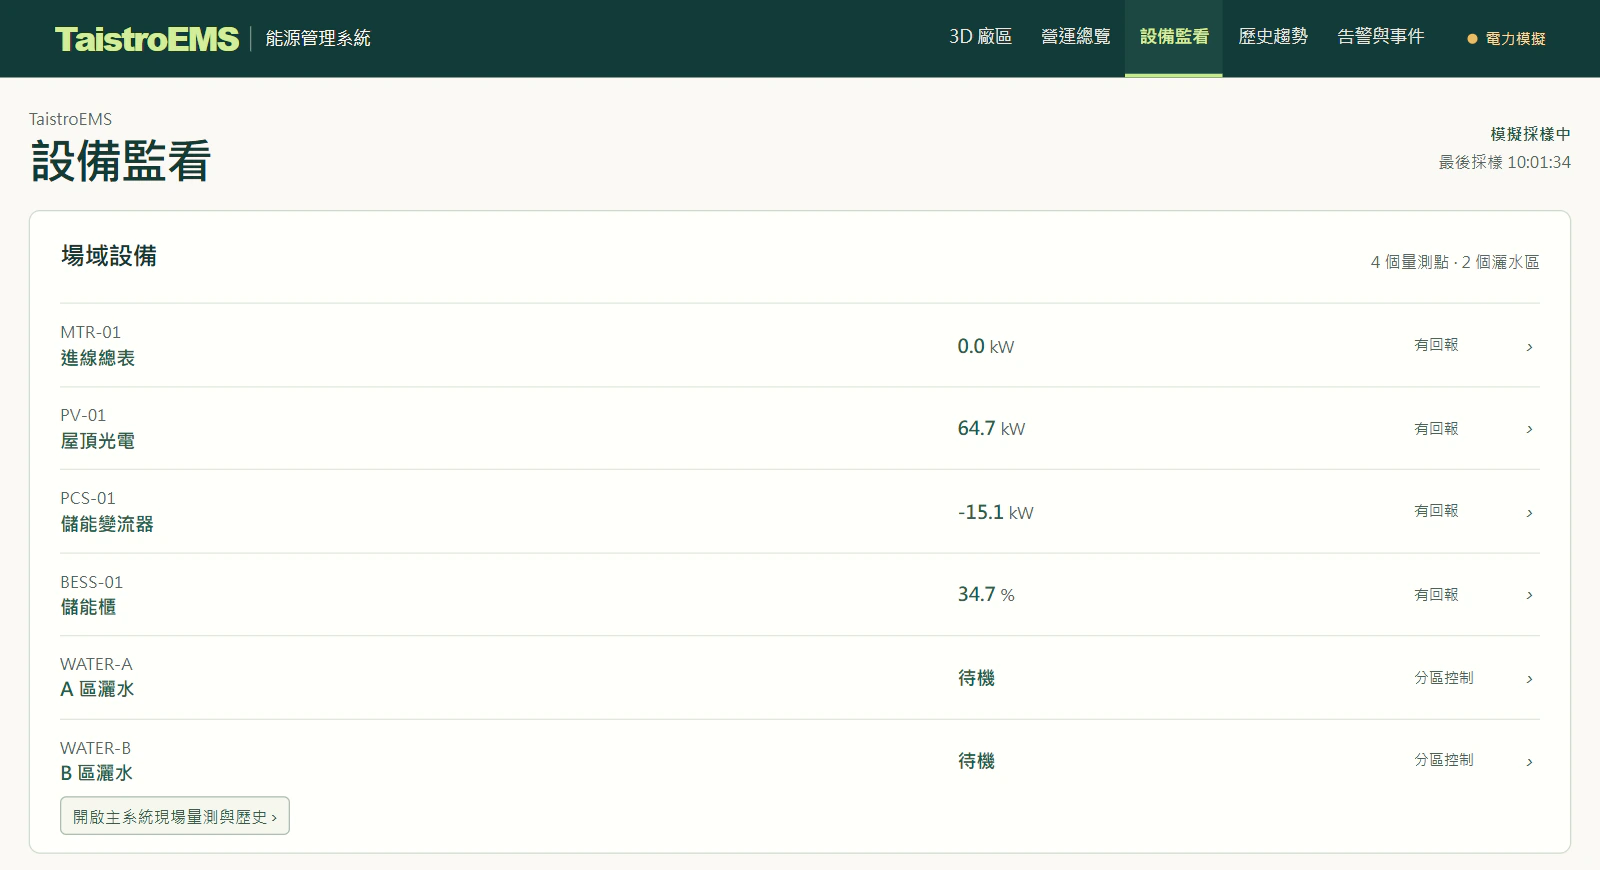
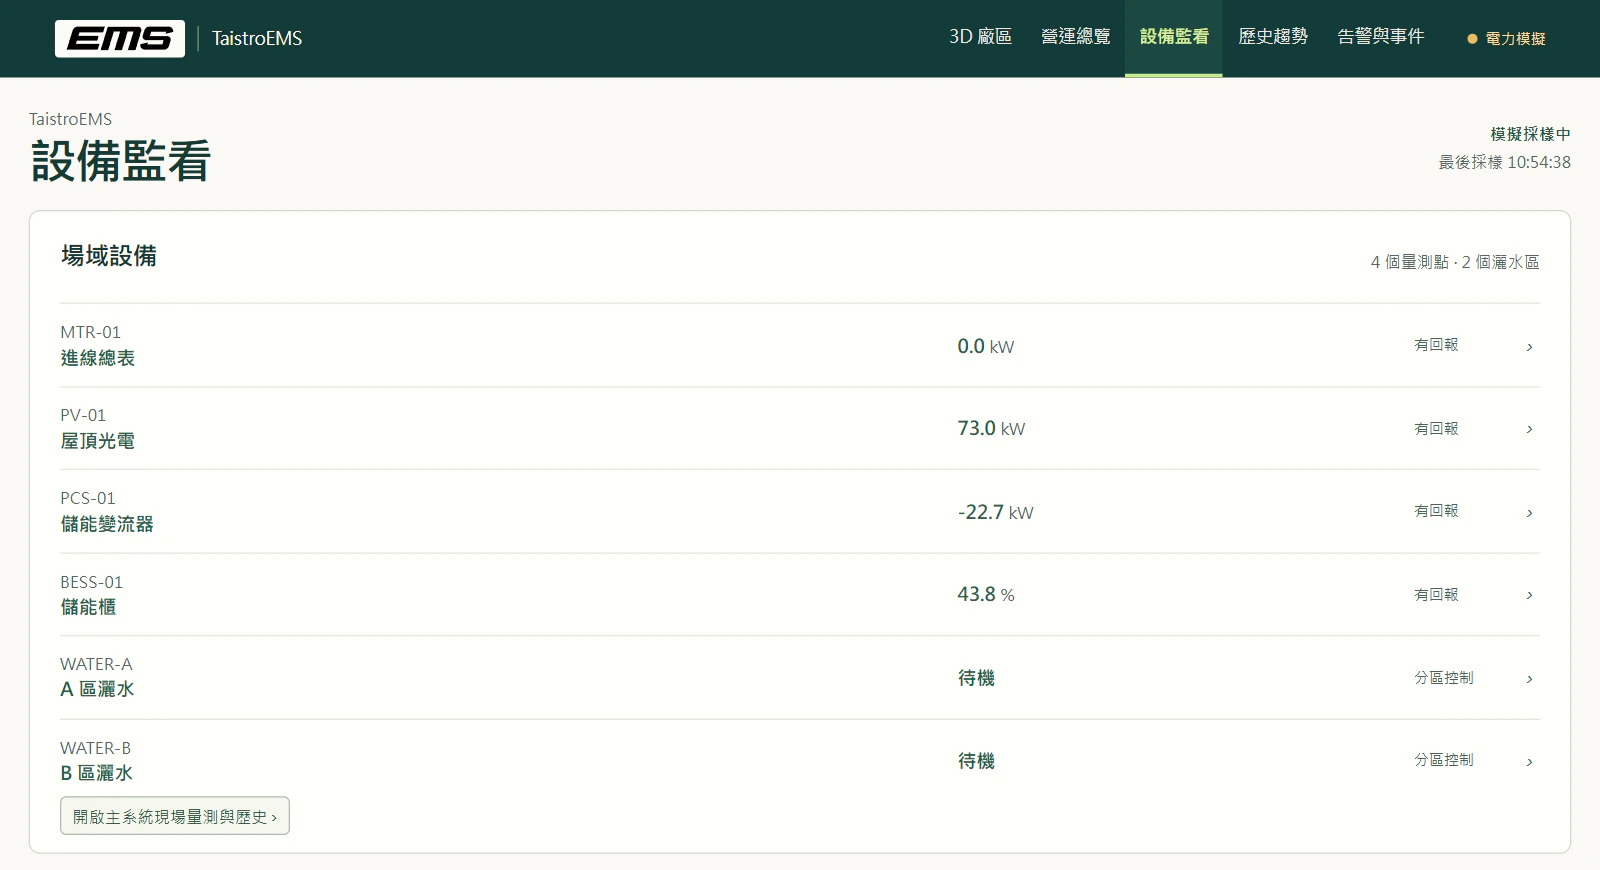
Use the supplied EMS wordmark on the product page and demo screens

diff --git a/docs/design/live-prototype/energy-design.js b/docs/design/live-prototype/energy-design.js
@@ -10,10 +10,11 @@ function stageContent(m, index) {
 function renderEnergy(product, destination, { locale = 'zh-Hant', messages = getMessages(locale) } = {}) {
   const m = messages[product];
   const name = product === 'ems' ? 'TaistroEMS' : 'PVsim';
+  const wordmark = product === 'ems' ? '<img class="ems-wordmark" src="assets/ems-wordmark.svg" alt="" width="88" height="20">' : '';
   return `<div class="energy-product" data-energy-product="${product}">
     <section class="energy-opening" aria-labelledby="energy-title"><div class="wrap energy-opening-layout">
       <div class="energy-opening-copy">
-        <p class="product-identity"><span>${e(m.productLabel)}</span></p>
+        <p class="product-identity">${wordmark}<span>${e(m.productLabel)}</span></p>
         <h1 id="energy-title">${m.title.map((line, index) => index === 2 ? `<span class="marked">${e(line)}</span>` : e(line)).join('<br>')}</h1>
         <p class="energy-intro">${e(m.intro)}</p>
         <div class="energy-opening-actions"><a class="button" href="#process">${e(m.cta)}</a><span class="energy-status">${e(m.status)}</span></div>
@@ -25,7 +26,7 @@ function renderEnergy(product, destination, { locale = 'zh-Hant', messages = get
     <section class="energy-capabilities energy-torn" id="capabilities" aria-labelledby="energy-capabilities-title"><div class="wrap energy-capabilities-layout"><div><span class="energy-section-number">03</span><h2 id="energy-capabilities-title">${m.capabilitiesTitle.map(e).join('<br>')}</h2><p>${e(m.capabilitiesIntro)}</p></div><dl class="energy-capability-list">${m.capabilities.map(([title, copy], index) => `<div><dt><span>0${index + 1}</span>${e(title)}</dt><dd>${e(copy)}</dd></div>`).join('')}</dl></div></section>
     <section class="energy-demo" id="proof" aria-labelledby="energy-demo-title"><div class="wrap"><div class="energy-demo-heading"><h2 id="energy-demo-title">${m.demoTitle.map(e).join('<br>')}</h2><p>${e(m.demoIntro)}</p></div>
       ${renderProductScreens(product, m)}
-      <div class="energy-workbook"><div class="energy-workbook-top"><span>${name}</span><span>${e(m.demoLabel)}</span></div>
+      <div class="energy-workbook"><div class="energy-workbook-top"><span class="energy-workbook-brand">${wordmark}${name}</span><span>${e(m.demoLabel)}</span></div>
         <div class="energy-stage-buttons" role="group" aria-label="${e(m.stageGroup)}">${m.stages.map(([title], index) => `<button type="button" data-energy-step="${index}" aria-pressed="${index === 0}" aria-controls="energy-stage"><span>0${index + 1}</span>${e(title)}</button>`).join('')}</div>
         <div class="energy-stage-layout"><div class="energy-stage-art"><ol class="energy-progress" aria-hidden="true">${m.stages.map((_, index) => `<li data-energy-marker="${index}" class="${index === 0 ? 'is-active' : ''}">0${index + 1}</li>`).join('')}</ol></div><div id="energy-stage" class="energy-stage-copy" aria-live="polite" aria-atomic="true">${stageContent(m, 0)}</div></div>
         <p class="energy-demo-note">${e(m.demoNote)}</p>

diff --git a/docs/design/live-prototype/site.css b/docs/design/live-prototype/site.css
@@ -3722,6 +3722,8 @@ body[data-page="kip"] .kip-capability-list dd {
 
 /* Company and product identities */
 .product-identity { display: flex; align-items: center; flex-wrap: wrap; gap: 12px 18px; margin: 0 0 24px; }
+.ems-wordmark { display: block; width: 88px; height: auto; }
+.energy-workbook-brand { display: inline-flex; align-items: center; gap: 12px; }
 @media (max-width: 480px) {
   .ink-photo__hint { right: 0; }
 }

diff --git a/docs/design/live-prototype/product-screen-provenance.md b/docs/design/live-prototype/product-screen-provenance.md
@@ -1,5 +1,17 @@
 # 產品畫面與背景動畫來源
 
+## 2026-11-17 EMS 字標與 Demo 截圖更新
+
[1 lines of base64/hex data omitted]
+
+系統更新至 `20261117-taistroems-logo-v1` 後，從[正式示範站](https://ems.taistro.com.tw/ems/#plant)重新擷取以下畫面。三張圖均包含新版頁首，灑水面板擷取時仍為模擬待機。原始 PNG 與驗收資料位於 `out/ems-logo-20261117/`。
+
+| 現行檔案 | 尺寸 | SHA-256 |
+|---|---|---|
[3 lines of base64/hex data omitted]
+
 ## 2026-11-17 TaistroEMS 產品截圖
 
 三張圖均擷取自 [TaistroEMS 示範站](https://ems.taistro.com.tw/ems/#plant) 的中文介面。首圖在 3D 廠區旋轉並放大模型；設備監看從廠區主選單開啟；灑水控制選取 A 區並使用「看整區」檢視光電棚架。以示範帳號讀取模擬器資料，截圖時高壓清洗與背面噴霧均為待機，未取得操作權或下達設備指令。截圖保留原畫面讀值，未含客戶名稱、帳號或登入表單。
